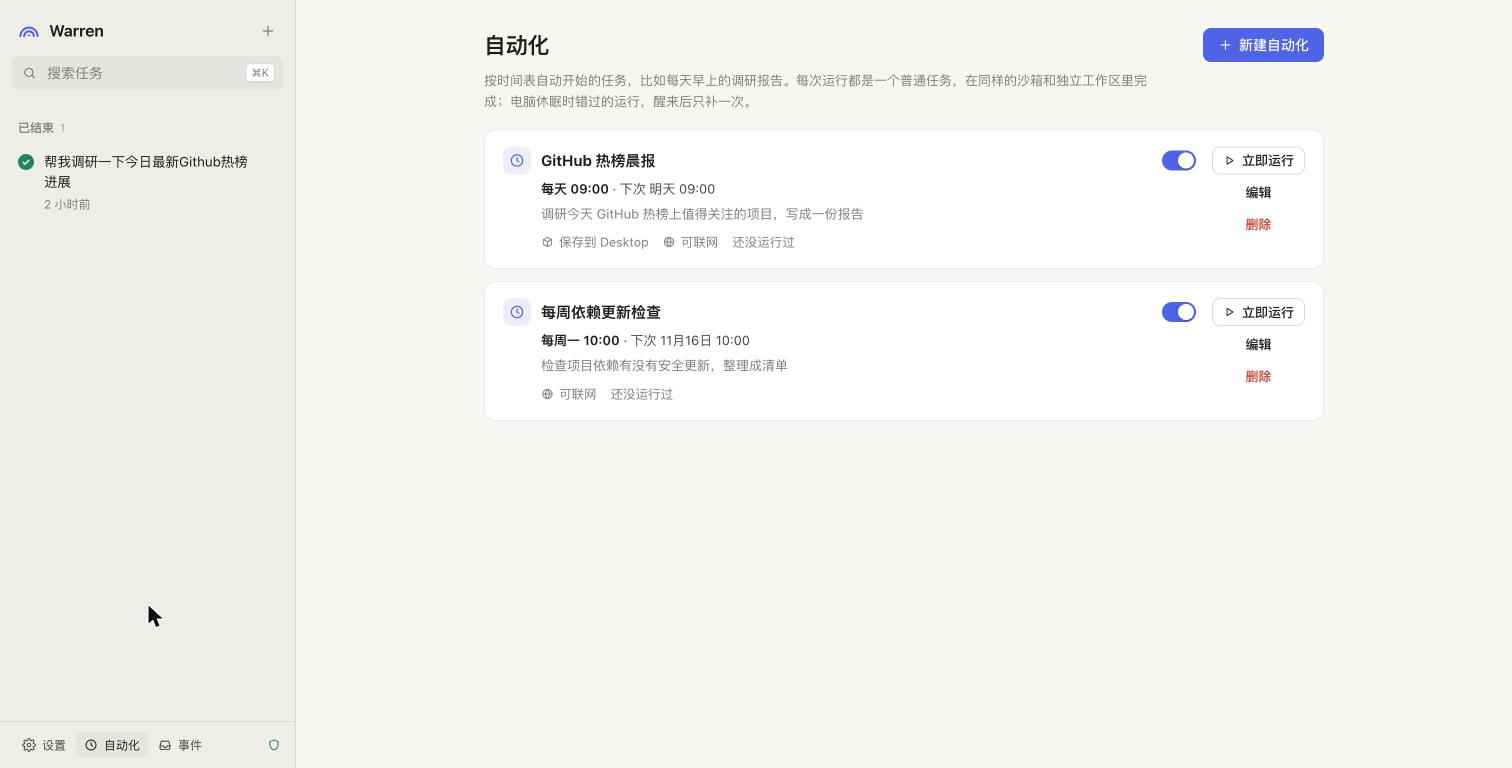
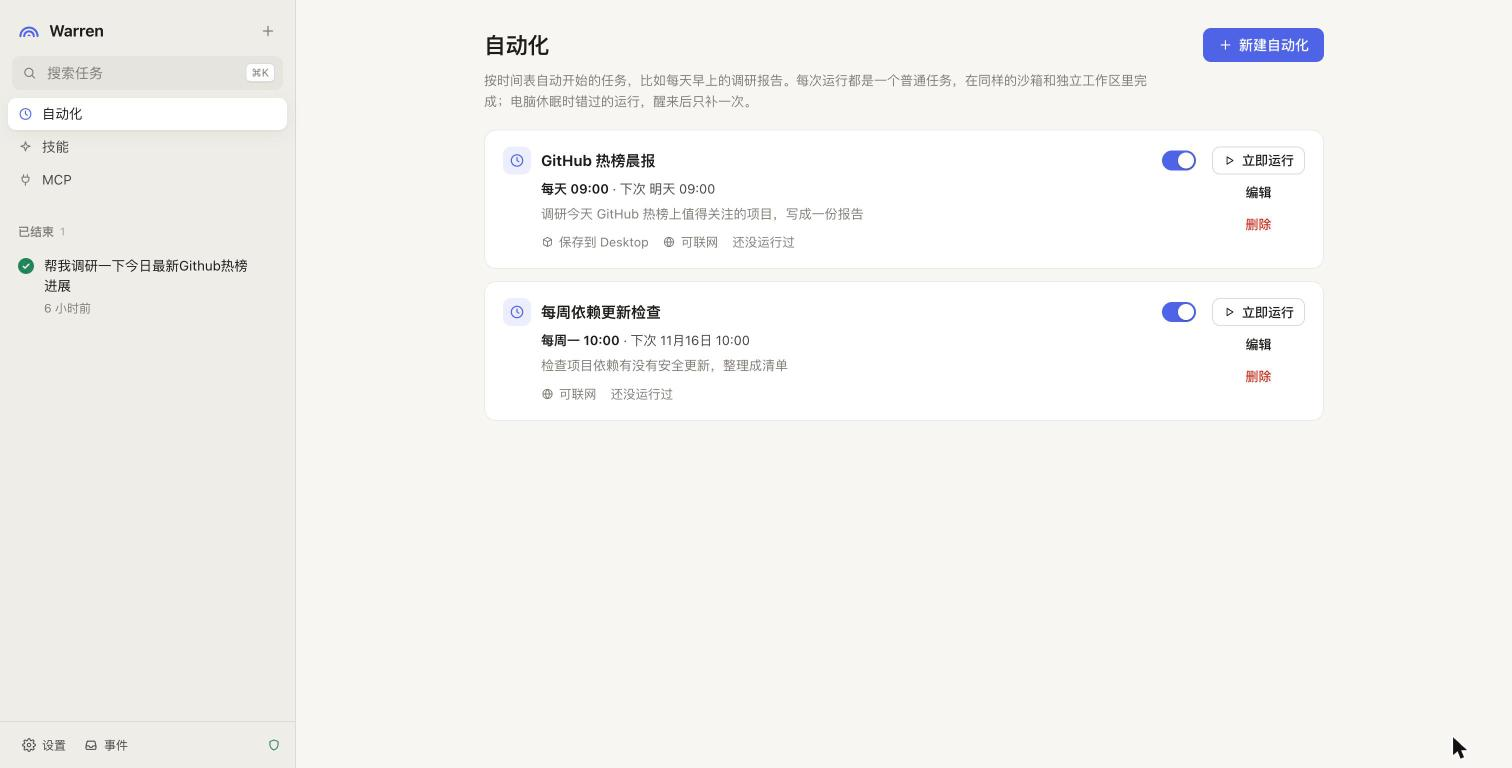
Refresh the README, docs and screenshots
All screenshots are retaken from the current interface: the start page
with its starter cards and sidebar navigation, the slash menu, a task's
report, and the Automations, Skills and MCP pages. The README shows
them as a gallery and describes the composer (slash menu, starters, MCP
choice) and the Automations, Skills and MCP pages; the English README
gains the same usage section. The interface, automations, and skills
and MCP docs embed the screenshots of what they describe, and the
interface doc describes the sidebar.

Adds a second example skill, examples/skills/code-review, checked by
the same test as the first.

diff --git a/packages/tools/tests/skills.test.ts b/packages/tools/tests/skills.test.ts
@@ -85,9 +85,9 @@ test("loading a skill returns its instructions and copies its files into the tas
   expect((await tool.run({ name: "nope" }, { scratch } as never)).outcome).toBe("error");
 });
 
-test("the example skill in the repository is valid", () => {
-  const skill = readSkill(
-    join(import.meta.dir, "..", "..", "..", "examples", "skills", "research-report"),
-  );
-  expect(skill.name).toBe("research-report");
+test("the example skills in the repository are valid", () => {
+  for (const name of ["research-report", "code-review"]) {
+    const skill = readSkill(join(import.meta.dir, "..", "..", "..", "examples", "skills", name));
+    expect(skill.name).toBe(name);
+  }
 });

diff --git a/README.md b/README.md
@@ -44,12 +44,20 @@
 
 <table>
   <tr>
-    <td><img src="docs/images/home.jpg" alt="起始页：输入框和可选项"></td>
-    <td><img src="docs/images/automations.jpg" alt="自动化列表"></td>
+    <td><img src="docs/images/home.jpg" alt="起始页：输入框、工具栏和起步卡片"></td>
+    <td><img src="docs/images/slash.jpg" alt="输入 / 弹出技能和操作菜单"></td>
   </tr>
   <tr>
     <td align="center">交代一件事，回车就开始</td>
-    <td align="center">按时间表自动运行的任务</td>
+    <td align="center">输入 <code>/</code> 选用技能、切换模型和联网</td>
+  </tr>
+  <tr>
+    <td><img src="docs/images/skills.jpg" alt="技能页"></td>
+    <td><img src="docs/images/mcp.jpg" alt="MCP 服务器页"></td>
+  </tr>
+  <tr>
+    <td align="center">技能：教它做某类工作</td>
+    <td align="center">MCP：接上外部工具</td>
   </tr>
 </table>
 
@@ -89,13 +97,23 @@ open src-tauri/target/release/bundle/macos/Warren.app
 
 ### 界面
 
-- **起始页：** 写下要做的事，回车开始。输入 `/` 或点"+"可以选用技能、切换模型和联网；输入框下方可以选择工作文件夹（git 仓库会克隆，其他文件夹会复制）、保存产物的位置和这个任务能用的 MCP 服务器；不选就用默认值。
+- **起始页：** 写下要做的事，回车开始。
+  - 输入 `/` 或点"+"：选用技能、切换模型、开关联网，可以打字筛选。
+  - 输入框下方：工作文件夹（git 仓库会克隆，其他文件夹会复制）、保存产物的位置、这个任务能用的 MCP 服务器；不选就用默认值。
+  - 输入框空着时有三张起步卡片（调研、修测试、整理文件夹），点一下会填好文字并设好对应的选项。
 - **任务页：**
   - 状态卡显示现在怎样、需要你做什么；
   - "动态"是完整的时间线，可以回放到任意一步；
   - "改动"显示仓库任务的 diff；
   - "产物"预览任务写出的文件。
-- **自动化、技能、MCP：** 都在侧栏上方。在已完成的任务上点"定期运行…"，可以把它变成自动化；技能和 MCP 服务器的用法见 [011](docs/011-skills-and-mcp.md)。
+- **自动化、技能、MCP：** 都在侧栏上方，各有一个页面。
+  - 自动化：按每天、每周或每隔几小时运行；在已完成的任务上点"定期运行…"可以直接把它变成自动化。
+  - 技能：添加 Agent Skills 格式的文件夹，仓库里的 `examples/skills/` 有两个例子（调研报告、代码审查）。
+  - MCP：添加本地命令或远程地址，测试连接，按服务器设置是否需要审批。详见 [011](docs/011-skills-and-mcp.md)。
+
+<p align="center">
+  <img src="docs/images/automations.jpg" width="720" alt="自动化页">
+</p>
 - **设置：** 语言、外观、模型、API 密钥、是否默认联网、并发数、哪些动作需要审批。
 
 快捷键：`/` 技能和操作 · `⌘N` 新任务 · `⌘K` 搜索 · `⌘,` 设置 · `↩` 发送 · `⇧↩` 换行。

diff --git a/README.en.md b/README.en.md
@@ -42,6 +42,25 @@ Most coding agents are something you watch: a terminal session editing your dire
 - **Interface:** a bilingual (Chinese and English) web interface and a macOS desktop app (Tauri) with a live timeline, replay and notifications, plus a complete CLI.
 - **Its own credentials only:** everything lives in `~/.warren/`; Warren uses the API keys you give it and never reads or writes the configuration or login of Claude Code, Codex or `gh`.
 
+<table>
+  <tr>
+    <td><img src="docs/images/home.jpg" alt="Start page"></td>
+    <td><img src="docs/images/slash.jpg" alt="The slash menu"></td>
+  </tr>
+  <tr>
+    <td align="center">Hand over a task, press Enter</td>
+    <td align="center">Type <code>/</code> for skills and actions</td>
+  </tr>
+  <tr>
+    <td><img src="docs/images/skills.jpg" alt="Skills"></td>
+    <td><img src="docs/images/mcp.jpg" alt="MCP servers"></td>
+  </tr>
+  <tr>
+    <td align="center">Skills teach it kinds of work</td>
+    <td align="center">MCP servers give it outside tools</td>
+  </tr>
+</table>
+
 ## Quick start
 
 **Requirements:** macOS 13 or later, [Bun](https://bun.sh) 1.4+, git, and an API key for a model (OpenAI, Anthropic or any OpenAI-compatible endpoint; a local Ollama needs none).
@@ -73,6 +92,14 @@ open src-tauri/target/release/bundle/macos/Warren.app
 ```
 
 `warren doctor` checks the configuration, keys and sandbox.
+
+## Using it
+
+- **Start page:** say what to do and press Enter. Type `/` (or press +) for skills and quick actions; under the text, choose a folder (a repository is cloned, any other folder copied), where to save, and which MCP servers the task may use. Starter cards set up common kinds of task in one click.
+- **Task page:** a status card says what is happening and what is needed from you; Activity is the full timeline with replay; Changes shows a repository task's diff; Files previews what the task wrote.
+- **Sidebar:** Automations, Skills and MCP each have a page; Settings (bottom left) holds models, API keys, defaults and approvals. Two example skills are in `examples/skills/` (a research report and a code review).
+
+Shortcuts: `/` skills and actions · `⌘N` new task · `⌘K` search · `⌘,` settings · `↩` send · `⇧↩` new line.
 
 ## Command line
 

diff --git a/docs/011-skills-and-mcp.md b/docs/011-skills-and-mcp.md
@@ -6,6 +6,8 @@
 
 ## 技能
 
+![技能页](images/skills.jpg)
+
 ### 格式
 
 采用 Anthropic Agent Skills 的格式，现有的技能可以直接使用。一个技能是一个文件夹：
@@ -27,7 +29,7 @@ description: Write a sourced research report in Markdown. Use when asked to rese
 ```
 
 - `name` 由小写字母、数字和连字符组成；`description` 写清楚它做什么、什么时候用，模型靠这句话判断要不要加载它。
-- 仓库里的 `examples/skills/research-report` 是一个完整的例子。
+- 仓库里有两个完整的例子：`examples/skills/research-report`（带引用的调研报告，附模板）和 `examples/skills/code-review`（合并前检查改动里的错误）。
 
 ### 安装和管理
 
@@ -36,6 +38,8 @@ description: Write a sourced research report in Markdown. Use when asked to rese
 - **格式错误：** 缺少 `SKILL.md`、名称不合规之类的技能会在页面上显示原因，不会提供给模型。
 
 ### 为一个任务指定技能
+
+![输入 / 弹出技能和操作菜单](images/slash.jpg)
 
 在起始页输入 `/` 或点"+"，选择技能，它会变成输入框里的标签。任务创建时，技能名记在 `task.created` 的 `skills` 里（不存在或已停用的技能会被拒绝），系统提示词会明确要求模型在开始前加载这些技能。任务页的标题下也会列出它们。
 
@@ -49,6 +53,8 @@ description: Write a sourced research report in Markdown. Use when asked to rese
 - **不扩大权限：** 技能只增加说明和文件，不改变 Grant。`load_skill` 的副作用等级是 `read`，崩溃后可以安全地重新执行。
 
 ## MCP 服务器
+
+![MCP 服务器页](images/mcp.jpg)
 
 ### 两种连接方式
 

diff --git a/examples/skills/code-review/SKILL.md b/examples/skills/code-review/SKILL.md
@@ -1,0 +1,24 @@
+---
+name: code-review
+description: Review a change for correctness bugs before it is merged. Use when asked to review a branch, a diff or a pull request, or to check work before publishing it.
+---
+
+# Code review
+
+Review what changed against its base, not the whole repository.
+
+## Steps
+
+1. List the changed files and read each change in full, with enough surrounding code to know
+   what it calls and what calls it.
+2. For each change, ask what input or state would make it wrong: empty and very large values,
+   errors from what it calls, concurrent use, a crash halfway through.
+3. Run the tests that cover the changed code. Where a suspected bug has no test, write a small
+   one that shows it.
+4. Report only problems you can show. For each: the file and line, what goes wrong, the input
+   that causes it, and the smallest fix.
+
+## Report
+
+Order findings by how much harm they do. Keep style remarks out unless they hide a bug. If
+nothing is wrong, say so plainly and say what you checked.

diff --git a/docs/006-interface.md b/docs/006-interface.md
@@ -12,8 +12,13 @@
 
 ## Web 界面
 
+![起始页](images/home.jpg)
+
+![任务页：完成总结和产物预览](images/task.jpg)
+
 `apps/web`，React + TanStack Query，按组件拆分在 `src/components/`。
 
+- **侧栏：** 顶部是新建任务（"+"）和搜索；下面是导航：自动化、技能、MCP；再下面是任务列表，按"需不需要你"分组；底部是设置、事件和沙箱状态。
 - **任务页的结构：**
   - **状态卡：** 显示"现在怎样、需要你做什么"。需要回答或批准时，直接在卡片里完成（回车提交）；运行中显示当前动作和已运行时长；结束后显示结论、发布的分支或 PR，以及改动摘要。
   - **标题下的信息：** 模型角色和实际回答的模型（例如 `main · gpt-6.1-terra`）、是否联网、用时、费用和调用次数。鼠标悬停在费用上，可以看到输入、缓存、输出和推理各用了多少 token。

diff --git a/docs/010-automations.md b/docs/010-automations.md
@@ -4,6 +4,8 @@
 
 ## 是什么
 
+![自动化页](images/automations.jpg)
+
 一条自动化 = 要做的事 + 时间表 + 和手动任务一样的选项（工作文件夹、保存到、模型、联网）。
 
 - **到点就开始一个普通任务：** 标题是自动化的名称，触发来源是 `automation`。任务走同样的沙箱、独立工作区、审批和通知。
@@ -43,7 +45,7 @@
 ## 界面与命令
 
 - **界面：**
-  - 侧栏底部的"自动化"，可以新建、编辑、启用 / 暂停、立即运行、删除。
+  - 侧栏上方的"自动化"，可以新建、编辑、启用 / 暂停、立即运行、删除。
   - 每张卡片显示时间表、下次运行时间、上次运行结果，可以跳到对应任务。
   - 已完成的任务上有"定期运行…"，按这个任务预填一条新自动化。
   - 自动化开始的任务，标题下标着"来自自动化"。
